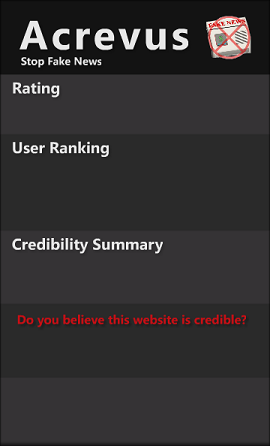
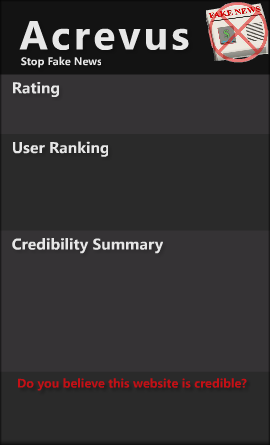
reopen domain bug fix and summary in window spacing improved

diff --git a/background.js b/background.js
@@ -9,8 +9,10 @@ chrome.tabs.onUpdated.addListener( function (tabId, changeInfo, tab) {
 // TODO:  3. Display Other stuff. 4. make it look sexc. 5. Only one window can be open at a time?
 function display_window(evt) {
 
-    function close_window(evt) {
-        idd = evt.currentTarget.id;
+    function close_window(evt2) {
+        idd = evt2.currentTarget.id;
+        domain = evt2.currentTarget.domain;
+        rating = evt2.currentTarget.rating;
         console.log("IDDD:" + String(idd));
         if (document.querySelectorAll('.popup_acrevus'+String(idd)).length > 0) {
             document.querySelectorAll('.popup_acrevus'+String(idd))[0].outerHTML = "";
@@ -21,6 +23,11 @@ function display_window(evt) {
             document.querySelectorAll('.star3'+String(idd))[0].outerHTML = "";
             document.querySelectorAll('.star4'+String(idd))[0].outerHTML = "";
             document.querySelectorAll('.star5'+String(idd))[0].outerHTML = "";
+            const tmp1 = document.getElementsByClassName("icon_acrevus" + String(idd))[0];
+            tmp1.id = idd;
+            tmp1.domain = domain;
+            tmp1.rating = rating;
+            tmp1.addEventListener("click", display_window, false);
         }
     }
 
@@ -95,7 +102,7 @@ function display_window(evt) {
 
                     if (summary == null) {
                         document.querySelectorAll('.icon_acrevus'+String(id))[0].innerHTML += "<div class='popup_acrevus"+String(id) + "'style='background-image: url(\"chrome-extension:" + String(chrome.runtime.id) + "/img/window.png\"); width:270px; \
-                        height:446px; position:relative;left:600px;top:-30px;z-index:9999'>" + "<p style='color:white;font-size:10px;position:absolute;left:13px;top:196px;width:90%;word-wrap:break-word;'>" + ratingDescription + "</p>" + "<p style='color:white;font-size:10px;position:absolute;left:13px;top:309px;width:90%;word-wrap:break-word;'>(Summary Unavailable)</p>" 
+                        height:446px; position:relative;left:600px;top:-30px;z-index:9999'>" + "<p style='color:white;font-size:10px;position:absolute;left:13px;top:196px;width:90%;word-wrap:break-word;'>" + ratingDescription + "</p>" + "<p style='color:white;font-size:10px;position:absolute;left:13px;top:250px;width:90%;word-wrap:break-word;'>(Summary Unavailable)</p>" 
                         + "<p style='color:white;font-size:10px;position:absolute;left:13px;top:90px;width:90%;word-wrap:break-word;'>" + String(site) + String(trustworthy_rating) +"</p></div>"
                         document.querySelectorAll('.icon_acrevus'+String(id))[0].outerHTML += "<a href='javascript:;' style='z-index:100000' ><div class='yes_btn"+String(id) + "'style='background-image: url(\"chrome-extension:" + String(chrome.runtime.id) + "/img/yes_button.png\"); width:120px; \
                         height:28px; position:relative;left:610px;top:-260px;z-index:9999'></div></a>"
@@ -114,7 +121,7 @@ function display_window(evt) {
                     } else {
                         document.querySelectorAll('.icon_acrevus'+String(id))[0].innerHTML += "<div class='popup_acrevus"+String(id) + "'style='background-image: url(\"chrome-extension:" + String(chrome.runtime.id) + "/img/window.png\"); width:270px; \
                     height:446px; position:relative;left:600px;top:-30px;z-index:9999'> \
-                    " + "<p style='color:white;font-size:10px;position:absolute;left:13px;top:309px;width:90%;word-wrap:break-word;'>" + summary + "</p>" + ". " + "<p style='color:white;font-size:10px;position:absolute;left:13px;top:196px;width:90%;word-wrap:break-word;'>" + ratingDescription + "</p>" + 
+                    " + "<p style='color:white;font-size:10px;position:absolute;left:13px;top:250px;width:90%;word-wrap:break-word;'>" + summary + "</p>" + ". " + "<p style='color:white;font-size:10px;position:absolute;left:13px;top:196px;width:90%;word-wrap:break-word;'>" + ratingDescription + "</p>" + 
                     "<p style='color:white;font-size:10px;position:absolute;left:13px;top:90px;width:90%;word-wrap:break-word;'>" + String(site) + String(trustworthy_rating) + "</p></div>";
                     document.querySelectorAll('.icon_acrevus'+String(id))[0].outerHTML += "<a href='javascript:;' style='z-index:100000' ><div class='yes_btn"+String(id) + "'style='background-image: url(\"chrome-extension:" + String(chrome.runtime.id) + "/img/yes_button.png\"); width:120px; \
                         height:28px; position:relative;left:610px;top:-260px;z-index:9999'></div></a>"
@@ -141,6 +148,8 @@ function display_window(evt) {
                    
                     const tmp1 = document.getElementsByClassName("icon_acrevus" + String(id))[0];
                     tmp1.id = String(id);
+                    tmp1.rating = rating;
+                    tmp1.domain = String(site);
                     tmp1.addEventListener("click", close_window, false);
                 }
             )   
